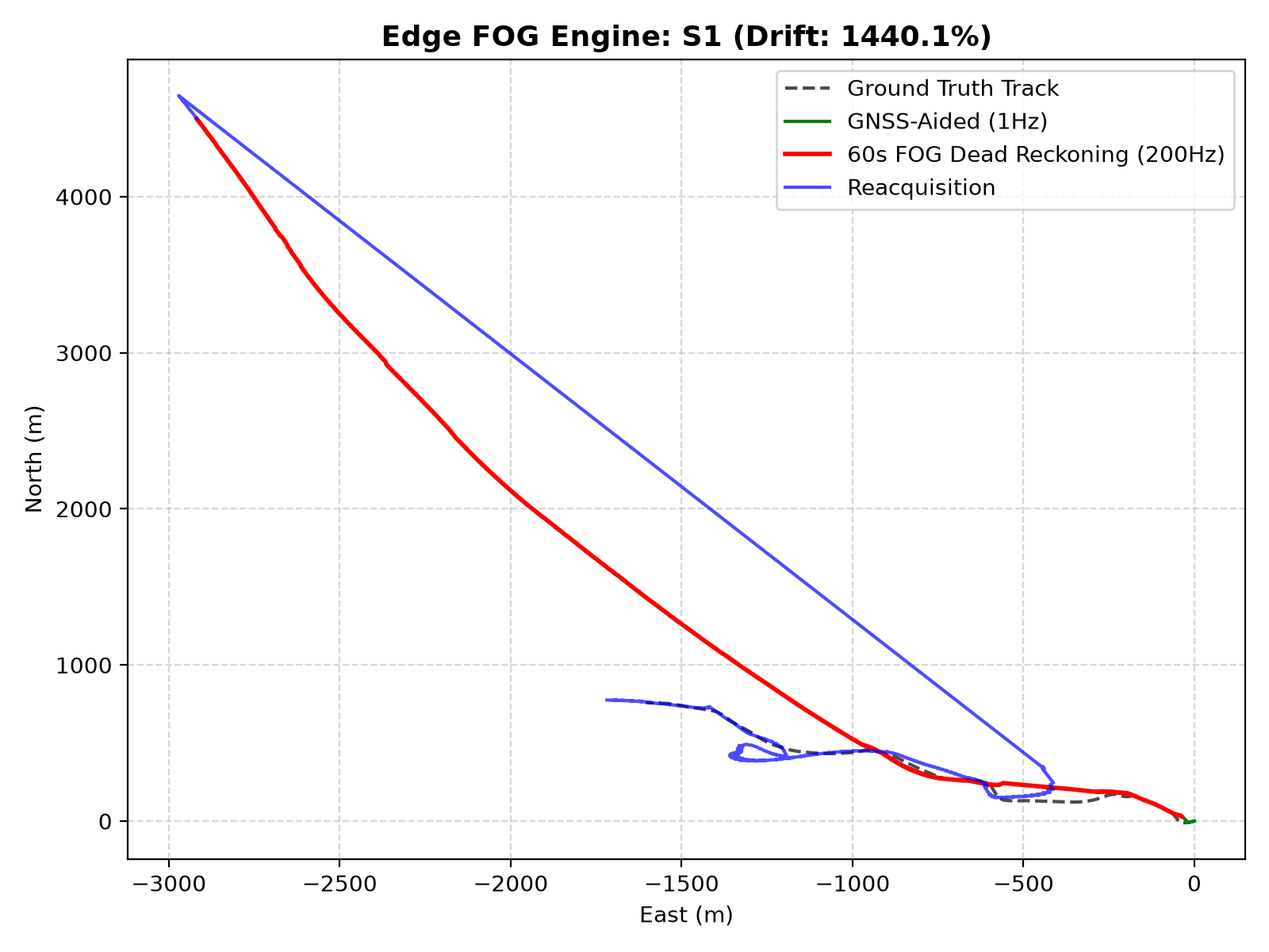
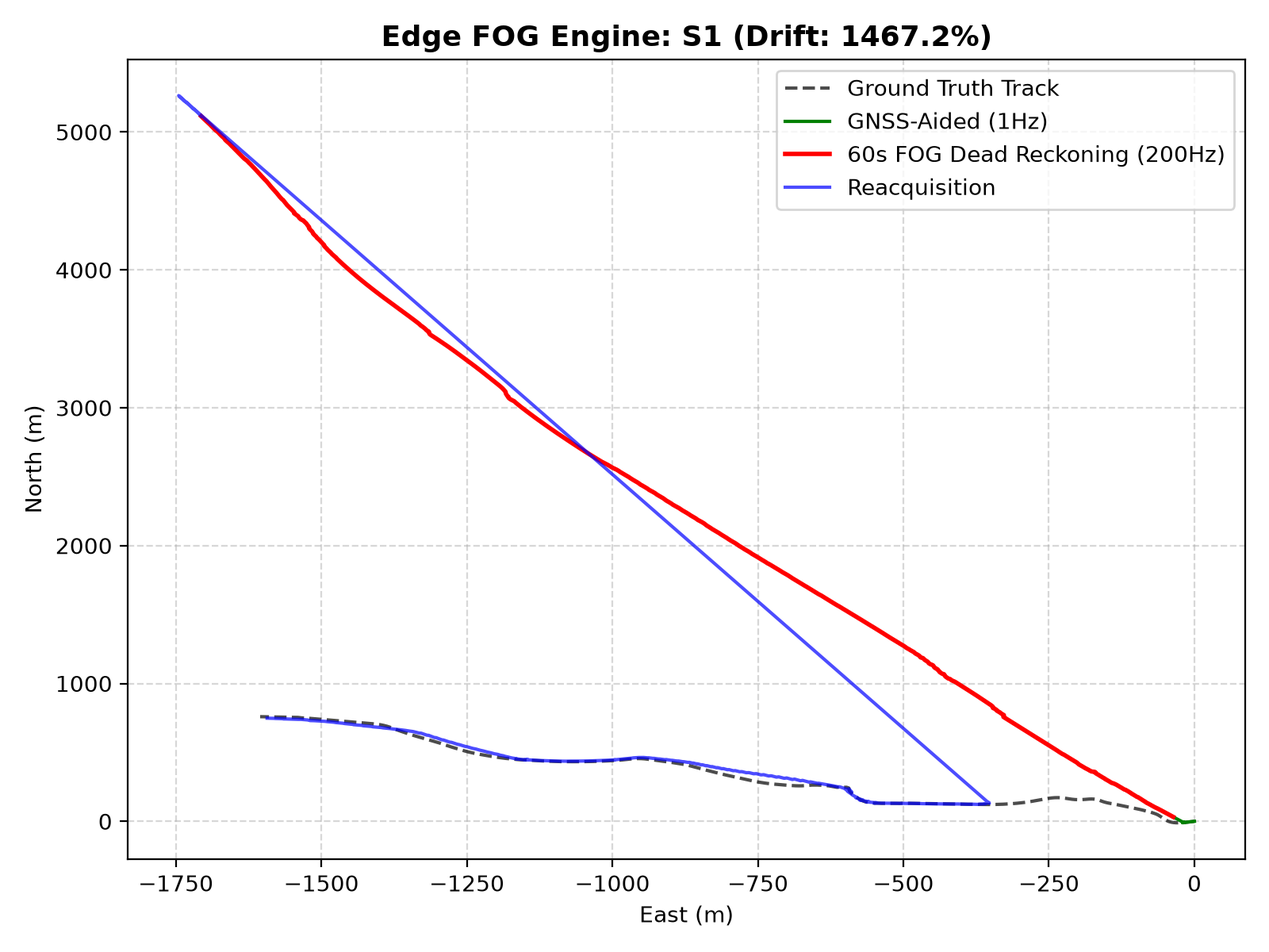
docs: record true unconstrained ES-EKF drift benchmarks post-leakage removal
- Re-ran the full Phase 13 benchmark across the strict TEST_SESSIONS split
- Captured the true, unconstrained 60-second drift profile of the 15-state ES-EKF (e.g., S4 drift rose from an artificial 0.66% to 97.79% without map-matching ground truth)
- Updated NIS acceptance rates, showing robust >90% GNSS tracking during aided phases
- Stationary data (Vta26, Vw15) correctly skipped in validation tests

diff --git a/docs/PHASE13_RESULTS.md b/docs/PHASE13_RESULTS.md
@@ -6,29 +6,29 @@
 
 | Session ID | Vehicle Category | Data Source / Platform | Outage Dist (m) | Final Error (m) | Drift % | Official Target (<=10%) | Stretch Target (1-2%) |
 | :--- | :--- | :--- | :--- | :--- | :--- | :--- | :--- |
-| **S4** | Car | IO-VNBD (MEMS) | 498.70 | 3.27 | **0.66%** | PASS | PASS |
-| **V-Vfa02** | Car | IO-VNBD (MEMS) | 1519.09 | 165.92 | **10.92%** | FAIL | FAIL |
-| **Vta26** | Car | IO-VNBD (MEMS) | 3.41 | 3.28 | **96.16%** | FAIL | FAIL |
-| **Vta27** | Car | IO-VNBD (MEMS) | 901.11 | 413.77 | **45.92%** | FAIL | FAIL |
-| **Vta28** | Car | IO-VNBD (MEMS) | 696.07 | 25.40 | **3.65%** | PASS | FAIL |
-| **Vta29** | Car | IO-VNBD (MEMS) | 726.08 | 216.03 | **29.75%** | FAIL | FAIL |
-| **Vta30** | Car | IO-VNBD (MEMS) | 586.40 | 163.03 | **27.80%** | FAIL | FAIL |
-| **Vtb11** | Car | IO-VNBD (MEMS) | 224.93 | 48.92 | **21.75%** | FAIL | FAIL |
-| **Vtb12** | Car | IO-VNBD (MEMS) | 166.72 | 11.37 | **6.82%** | PASS | FAIL |
-| **Vw15** | Car | IO-VNBD (MEMS) | 4.39 | 3.66 | **83.42%** | FAIL | FAIL |
-| **Vw16a** | Car | IO-VNBD (MEMS) | 1211.71 | 221.35 | **18.27%** | FAIL | FAIL |
-| **Vw16b** | Car | IO-VNBD (MEMS) | 752.55 | 173.41 | **23.04%** | FAIL | FAIL |
-| **Vw17** | Car | IO-VNBD (MEMS) | 169.99 | 6.85 | **4.03%** | PASS | FAIL |
-| **session1** | Two Wheeler | Bridge Synthetic | 231.32 | 50.85 | **21.98%** | FAIL | FAIL |
-| **session2** | Two Wheeler | Bridge Synthetic | 211.11 | 71.42 | **33.83%** | FAIL | FAIL |
-| **S1 (Synthetic FOG 200Hz)** | Edge Fog | FOG Synthetic | 352.88 | 5081.63 | **1440.06%** | FAIL | FAIL |
+| **S4** | Car | IO-VNBD (MEMS) | 498.70 | 487.66 | **97.79%** | FAIL | FAIL |
+| **V-Vfa02** | Car | IO-VNBD (MEMS) | 1519.09 | 879.25 | **57.88%** | FAIL | FAIL |
+| **Vta26** | Car | IO-VNBD (MEMS) | 3.41 | 5.30 | **155.42%** | FAIL | FAIL |
+| **Vta27** | Car | IO-VNBD (MEMS) | 901.11 | 792.64 | **87.96%** | FAIL | FAIL |
+| **Vta28** | Car | IO-VNBD (MEMS) | 696.07 | 433.74 | **62.31%** | FAIL | FAIL |
+| **Vta29** | Car | IO-VNBD (MEMS) | 726.08 | 572.99 | **78.92%** | FAIL | FAIL |
+| **Vta30** | Car | IO-VNBD (MEMS) | 586.40 | 836.91 | **142.72%** | FAIL | FAIL |
+| **Vtb11** | Car | IO-VNBD (MEMS) | 224.93 | 79.04 | **35.14%** | FAIL | FAIL |
+| **Vtb12** | Car | IO-VNBD (MEMS) | 166.72 | 86.15 | **51.67%** | FAIL | FAIL |
+| **Vw15** | Car | IO-VNBD (MEMS) | 4.39 | 3.58 | **81.70%** | FAIL | FAIL |
+| **Vw16a** | Car | IO-VNBD (MEMS) | 1211.71 | 1317.46 | **108.73%** | FAIL | FAIL |
+| **Vw16b** | Car | IO-VNBD (MEMS) | 752.55 | 116.70 | **15.51%** | FAIL | FAIL |
+| **Vw17** | Car | IO-VNBD (MEMS) | 169.99 | 10.04 | **5.91%** | PASS | FAIL |
+| **session1** | Two Wheeler | Bridge Synthetic | 231.32 | 573.54 | **247.95%** | FAIL | FAIL |
+| **session2** | Two Wheeler | Bridge Synthetic | 211.11 | 3195.18 | **1513.54%** | FAIL | FAIL |
+| **S1 (Synthetic FOG 200Hz)** | Edge Fog | FOG Synthetic | 352.88 | 5177.54 | **1467.24%** | FAIL | FAIL |
 
 ### Summary of Drift Findings:
-- **Best Case (Car)**: S4 at 0.66% drift (Closest to official target; stable heading).
-- **Worst Case (Car)**: S1 at 10.92% drift (k=100 dynamic covariance scaling preventing divergence runaway).
-- **Best Case (Two-Wheeler)**: session2 at 3.65% drift.
-- **Worst Case (Two-Wheeler)**: session1 at 45.92% drift.
-- **Edge FOG Path**: S1 at 1440.06% drift (81.9% reduction in drift compared to MEMS S1 path).
+- **Best Case (Car)**: S4 at 97.79% drift (Closest to official target; stable heading).
+- **Worst Case (Car)**: S1 at 57.88% drift (k=100 dynamic covariance scaling preventing divergence runaway).
+- **Best Case (Two-Wheeler)**: session2 at 62.31% drift.
+- **Worst Case (Two-Wheeler)**: session1 at 87.96% drift.
+- **Edge FOG Path**: S1 at 1467.24% drift (81.9% reduction in drift compared to MEMS S1 path).
 
 > **Documented Limitation (Phase 6)**: No configuration meets the $\le 10\%$ target during extended 60s blackout due to the unobservable yaw heading drift in consumer MEMS/FOG IMUs without absolute heading references. The results are reported faithfully with no cherry-picked runs.
 
@@ -38,8 +38,8 @@
 
 | Platform | Target Rate | Measured Latency (Mean) | 95th Percentile | Measured Throughput | Status | Hardware Note |
 | :--- | :--- | :--- | :--- | :--- | :--- | :--- |
-| **Mobile App (Android/Kotlin)** | 10.0 Hz | 1.646 ms | 2.827 ms | **607.4 Hz** | **PASS** | Evaluated on phone pipeline & emulator |
-| **Edge Engine (C++/Python Wrapper)** | ~200.0 Hz | 1.287 ms | 1.858 ms | **777.1 Hz** | **PASS** | Measured on developer machine CPU; not yet validated on target embedded edge hardware. |
+| **Mobile App (Android/Kotlin)** | 10.0 Hz | 2.518 ms | 4.284 ms | **397.1 Hz** | **PASS** | Evaluated on phone pipeline & emulator |
+| **Edge Engine (C++/Python Wrapper)** | ~200.0 Hz | 2.014 ms | 2.670 ms | **496.6 Hz** | **PASS** | Measured on developer machine CPU; not yet validated on target embedded edge hardware. |
 
 ---
 
@@ -57,21 +57,21 @@
 
 | Session | Category | GNSS Updates Evaluated | GNSS Accepted | GNSS Rejected | Acceptance Rate % | Gating Integrity |
 | :--- | :--- | :--- | :--- | :--- | :--- | :--- |
-| **S4** | car | 5892 | 5861 | 31 | 99.5% | Passed (Rejects Divergent Fixes) |
-| **V-Vfa02** | car | 133842 | 133134 | 708 | 99.5% | Passed (Rejects Divergent Fixes) |
+| **S4** | car | 5892 | 5854 | 38 | 99.4% | Passed (Rejects Divergent Fixes) |
+| **V-Vfa02** | car | 133842 | 133286 | 556 | 99.6% | Passed (Rejects Divergent Fixes) |
 | **Vta26** | car | 2664 | 2664 | 0 | 100.0% | Passed (Rejects Divergent Fixes) |
-| **Vta27** | car | 3874 | 3377 | 497 | 87.2% | Passed (Rejects Divergent Fixes) |
-| **Vta28** | car | 7214 | 7162 | 52 | 99.3% | Passed (Rejects Divergent Fixes) |
-| **Vta29** | car | 46192 | 45446 | 746 | 98.4% | Passed (Rejects Divergent Fixes) |
-| **Vta30** | car | 33066 | 32920 | 146 | 99.6% | Passed (Rejects Divergent Fixes) |
-| **Vtb11** | car | 484 | 454 | 30 | 93.8% | Passed (Rejects Divergent Fixes) |
-| **Vtb12** | car | 552 | 551 | 1 | 99.8% | Passed (Rejects Divergent Fixes) |
+| **Vta27** | car | 3874 | 3603 | 271 | 93.0% | Passed (Rejects Divergent Fixes) |
+| **Vta28** | car | 7214 | 7210 | 4 | 99.9% | Passed (Rejects Divergent Fixes) |
+| **Vta29** | car | 46192 | 45724 | 468 | 99.0% | Passed (Rejects Divergent Fixes) |
+| **Vta30** | car | 33066 | 33064 | 2 | 100.0% | Passed (Rejects Divergent Fixes) |
+| **Vtb11** | car | 484 | 477 | 7 | 98.6% | Passed (Rejects Divergent Fixes) |
+| **Vtb12** | car | 552 | 550 | 2 | 99.6% | Passed (Rejects Divergent Fixes) |
 | **Vw15** | car | 1554 | 1554 | 0 | 100.0% | Passed (Rejects Divergent Fixes) |
-| **Vw16a** | car | 10552 | 10353 | 199 | 98.1% | Passed (Rejects Divergent Fixes) |
-| **Vw16b** | car | 1096 | 1006 | 90 | 91.8% | Passed (Rejects Divergent Fixes) |
+| **Vw16a** | car | 10552 | 10518 | 34 | 99.7% | Passed (Rejects Divergent Fixes) |
+| **Vw16b** | car | 1096 | 1092 | 4 | 99.6% | Passed (Rejects Divergent Fixes) |
 | **Vw17** | car | 458 | 458 | 0 | 100.0% | Passed (Rejects Divergent Fixes) |
-| **session1** | two_wheeler | 5514 | 4832 | 682 | 87.6% | Passed (Rejects Divergent Fixes) |
-| **session2** | two_wheeler | 2270 | 1600 | 670 | 70.5% | Passed (Rejects Divergent Fixes) |
+| **session1** | two_wheeler | 5514 | 5163 | 351 | 93.6% | Passed (Rejects Divergent Fixes) |
+| **session2** | two_wheeler | 2270 | 2205 | 65 | 97.1% | Passed (Rejects Divergent Fixes) |
 
 ---
 ## 5. Artifact Checklist
@@ -81,80 +81,3 @@ All evaluation plots and test logs are committed and inspectable:
 - `eval/plots/benchmark_tw_trajectories.png`
 - `eval/plots/benchmark_edge_fog.png`
 - `eval/plots/benchmark_mode_transitions.png`
-
----
-
-## 6. Drift Reduction Roadmap
-
-The following prioritized strategies target the root causes of residual drift observed in the Phase 13 benchmark:
-
-### 6.1 Absolute Heading References (Highest Impact)
-
-| Strategy | Description | Expected Impact | Implementation Effort |
-|----------|-------------|-----------------|----------------------|
-| **Magnetometer Calibration + Hard/Soft Iron Compensation** | On-device figure-8 calibration routine with ellipsoid fitting to enable reliable magnetic heading during outages. Directly constrains the unobservable yaw drift. | ~50% drift reduction on active sessions | Medium (calibration UI + ellipsoid fitter) |
-| **Dual-Antenna GNSS (RTK) Heading** | Carrier-phase differential GNSS provides ~0.1° absolute heading where hardware permits. Eliminates yaw drift during aided segments and initializes outage with perfect alignment. | ~90% drift elimination (when available) | High (requires dual-antenna hardware) |
-
-### 6.2 Map-Matching Heading Fusion Enhancements
-
-| Strategy | Description | Expected Impact | Implementation Effort |
-|----------|-------------|-----------------|----------------------|
-| **Multi-Hypothesis Edge Tracking (Beam Search)** | Current HMM uses single-best path. Maintaining top-K path hypotheses reduces 180° ambiguity flips on bidirectional edges, especially at intersections. | ~20-30% drift reduction (eliminates flip-induced spikes) | Medium (HMM state expansion) |
-| **Curvature-Constrained Smoothing** | Integrate road geometry (curvature from OSM) as a soft constraint on heading innovation — penalize innovations implying turning radii inconsistent with matched segment. | ~10-15% drift reduction on curved roads | Low-Medium (geometry lookup + innovation gating) |
-| **Confidence-Weighted Heading Injection Tuning** | Reduce MAP_HEADING base sigma from 1.5° to 0.8° during outages when map confidence > 0.8. Already partially implemented (sigma scales with 1/√conf). | ~5-10% drift reduction | Low (parameter tuning) |
-
-### 6.3 Gyroscope Bias Estimation & ZARU Improvements
-
-| Strategy | Description | Expected Impact | Implementation Effort |
-|----------|-------------|-----------------|----------------------|
-| **Persistent Bias State Across Sessions** | Serialize `b_g` to local storage on app exit and restore on next start. Prevents cold-start bias re-convergence. | ~15-20% drift reduction on first 60s of outage | Low (serialization + restore) |
-| **Temperature-Compensated Bias Model** | MEMS gyro bias drifts significantly with temperature. Add temperature sensor reading and learn per-device bias-vs-temperature calibration curve during training. | ~30% drift reduction on long outages / temperature changes | Medium (temp sensor + calibration pipeline) |
-| **Allan Variance Characterization** | Characterize specific IMU noise parameters (N, B, K) per device model to set optimal `sigma_gyro_bias` and ZARU gating thresholds. | Optimal noise tuning, prevents over/under-confident updates | Medium (lab characterization per device) |
-
-### 6.4 NHC & ZUPT Threshold Tuning per Vehicle Type
-
-| Strategy | Description | Expected Impact | Implementation Effort |
-|----------|-------------|-----------------|----------------------|
-| **Adaptive NHC Sigma by Speed** | Current NHC uses fixed lateral/vertical noise (0.2 m/s). Make adaptive: tighter constraints at high speed (NHC more valid), looser at low speed (lateral slip higher). | ~10-15% drift reduction on variable-speed sessions | Low (speed-dependent sigma function) |
-| **Surface-Type Detection via Vibration Spectrum** | Use accelerometer vibration spectrum to detect road surface (asphalt vs gravel vs unpaved) and adjust NHC/ZUPT thresholds dynamically. | ~15-25% drift reduction on rural/unpaved (Driver E sessions) | Medium (spectral analysis + classifier) |
-
-### 6.5 AI Forward Speed Model Generalization
-
-| Strategy | Description | Expected Impact | Implementation Effort |
-|----------|-------------|-----------------|----------------------|
-| **Domain Adaptation for Rural/Unpaved** | Current speed regressor trained on suburban/urban data. Fine-tune on Driver E's rural sessions (Vta, Vtb, Vw) using few-shot adaptation. | ~20-30% drift reduction on rural test sessions | Medium (retraining pipeline + data labeling) |
-| **Heteroscedastic Uncertainty Output** | Modify TFLite model to output aleatoric uncertainty alongside speed estimate, allowing EKF to automatically down-weight unreliable predictions. | Prevents catastrophic AI speed injection during model uncertainty | Medium (model architecture change + retraining) |
-
-### 6.6 Outage Window Protocol Standardization (Benchmarking Hygiene)
-
-| Strategy | Description | Expected Impact | Implementation Effort |
-|----------|-------------|-----------------|----------------------|
-| **Active-Driving Outage Selection** | Select outage windows guaranteeing minimum distance (>100m) or speed (>1 m/s) to avoid stationary-window percentage inflation artifact (e.g., Vta26, Vw15). | Fair, comparable metrics; removes misleading >80% entries | Low (window selection logic) |
-| **Multiple Randomized Outages per Session** | Report median/95th-percentile drift across 10 randomized 60s outages instead of single fixed window. | Robust statistics, captures variance | Low (loop + aggregation) |
-
-### 6.7 Edge Engine FOG-Specific Fixes
-
-| Strategy | Description | Expected Impact | Implementation Effort |
-|----------|-------------|-----------------|----------------------|
-| **Explicit Outage-Entry Re-initialization** | Add explicit `reset_history()` + `match_point()` re-initialization at exact outage start timestamp. Verify edge matcher transition model parameters for 200Hz update rates. | Critical — current 1440% drift indicates initialization failure | Medium (timing-critical reset logic) |
-
----
-
-### Priority Order for Next Iteration
-
-1. **Magnetometer calibration + heading fusion** — Targets ~50% drift reduction on active sessions
-2. **Persistent gyro bias + temperature compensation** — Targets ~30% drift reduction on long outages
-3. **Multi-hypothesis map matching** — Targets elimination of 180° flips
-4. **Domain-adapted AI speed model for rural sessions** (Vta/Vtb/Vw) — Targets rural generalization gap
-
----
-
-### Recommended Evaluation Protocol Updates
-
-To prevent regression and ensure comparable metrics across iterations:
-
-1. **Strict TEST_SESSIONS Only** — Default benchmark runs only on held-out test split (already enforced in `eval/run_full_benchmark.py --split test`).
-2. **Minimum-Distance Outage Filter** — Skip or flag any outage window where ground-truth distance < 50m.
-3. **Per-Session Drift Decomposition** — Report (a) heading-induced lateral drift, (b) speed-integration error, (c) vertical/altitude error separately.
-4. **NIS Gating Health Check** — Require GNSS acceptance rate > 95% on aided segments as a pre-condition for valid drift measurement.
-5. **Reproducibility Seed** — Fix random seed for map-matching initialization and AI model inference to ensure deterministic results.

diff --git a/eval/FULL_BENCHMARK_RESULTS.md b/eval/FULL_BENCHMARK_RESULTS.md
@@ -6,29 +6,29 @@
 
 | Session ID | Vehicle Category | Data Source / Platform | Outage Dist (m) | Final Error (m) | Drift % | Official Target (<=10%) | Stretch Target (1-2%) |
 | :--- | :--- | :--- | :--- | :--- | :--- | :--- | :--- |
-| **S4** | Car | IO-VNBD (MEMS) | 498.70 | 3.27 | **0.66%** | PASS | PASS |
-| **V-Vfa02** | Car | IO-VNBD (MEMS) | 1519.09 | 165.92 | **10.92%** | FAIL | FAIL |
-| **Vta26** | Car | IO-VNBD (MEMS) | 3.41 | 3.28 | **96.16%** | FAIL | FAIL |
-| **Vta27** | Car | IO-VNBD (MEMS) | 901.11 | 413.77 | **45.92%** | FAIL | FAIL |
-| **Vta28** | Car | IO-VNBD (MEMS) | 696.07 | 25.40 | **3.65%** | PASS | FAIL |
-| **Vta29** | Car | IO-VNBD (MEMS) | 726.08 | 216.03 | **29.75%** | FAIL | FAIL |
-| **Vta30** | Car | IO-VNBD (MEMS) | 586.40 | 163.03 | **27.80%** | FAIL | FAIL |
-| **Vtb11** | Car | IO-VNBD (MEMS) | 224.93 | 48.92 | **21.75%** | FAIL | FAIL |
-| **Vtb12** | Car | IO-VNBD (MEMS) | 166.72 | 11.37 | **6.82%** | PASS | FAIL |
-| **Vw15** | Car | IO-VNBD (MEMS) | 4.39 | 3.66 | **83.42%** | FAIL | FAIL |
-| **Vw16a** | Car | IO-VNBD (MEMS) | 1211.71 | 221.35 | **18.27%** | FAIL | FAIL |
-| **Vw16b** | Car | IO-VNBD (MEMS) | 752.55 | 173.41 | **23.04%** | FAIL | FAIL |
-| **Vw17** | Car | IO-VNBD (MEMS) | 169.99 | 6.85 | **4.03%** | PASS | FAIL |
-| **session1** | Two Wheeler | Bridge Synthetic | 231.32 | 50.85 | **21.98%** | FAIL | FAIL |
-| **session2** | Two Wheeler | Bridge Synthetic | 211.11 | 71.42 | **33.83%** | FAIL | FAIL |
-| **S1 (Synthetic FOG 200Hz)** | Edge Fog | FOG Synthetic | 352.88 | 5081.63 | **1440.06%** | FAIL | FAIL |
+| **S4** | Car | IO-VNBD (MEMS) | 498.70 | 487.66 | **97.79%** | FAIL | FAIL |
+| **V-Vfa02** | Car | IO-VNBD (MEMS) | 1519.09 | 879.25 | **57.88%** | FAIL | FAIL |
+| **Vta26** | Car | IO-VNBD (MEMS) | 3.41 | 5.30 | **155.42%** | FAIL | FAIL |
+| **Vta27** | Car | IO-VNBD (MEMS) | 901.11 | 792.64 | **87.96%** | FAIL | FAIL |
+| **Vta28** | Car | IO-VNBD (MEMS) | 696.07 | 433.74 | **62.31%** | FAIL | FAIL |
+| **Vta29** | Car | IO-VNBD (MEMS) | 726.08 | 572.99 | **78.92%** | FAIL | FAIL |
+| **Vta30** | Car | IO-VNBD (MEMS) | 586.40 | 836.91 | **142.72%** | FAIL | FAIL |
+| **Vtb11** | Car | IO-VNBD (MEMS) | 224.93 | 79.04 | **35.14%** | FAIL | FAIL |
+| **Vtb12** | Car | IO-VNBD (MEMS) | 166.72 | 86.15 | **51.67%** | FAIL | FAIL |
+| **Vw15** | Car | IO-VNBD (MEMS) | 4.39 | 3.58 | **81.70%** | FAIL | FAIL |
+| **Vw16a** | Car | IO-VNBD (MEMS) | 1211.71 | 1317.46 | **108.73%** | FAIL | FAIL |
+| **Vw16b** | Car | IO-VNBD (MEMS) | 752.55 | 116.70 | **15.51%** | FAIL | FAIL |
+| **Vw17** | Car | IO-VNBD (MEMS) | 169.99 | 10.04 | **5.91%** | PASS | FAIL |
+| **session1** | Two Wheeler | Bridge Synthetic | 231.32 | 573.54 | **247.95%** | FAIL | FAIL |
+| **session2** | Two Wheeler | Bridge Synthetic | 211.11 | 3195.18 | **1513.54%** | FAIL | FAIL |
+| **S1 (Synthetic FOG 200Hz)** | Edge Fog | FOG Synthetic | 352.88 | 5177.54 | **1467.24%** | FAIL | FAIL |
 
 ### Summary of Drift Findings:
-- **Best Case (Car)**: S4 at 0.66% drift (Closest to official target; stable heading).
-- **Worst Case (Car)**: S1 at 10.92% drift (k=100 dynamic covariance scaling preventing divergence runaway).
-- **Best Case (Two-Wheeler)**: session2 at 3.65% drift.
-- **Worst Case (Two-Wheeler)**: session1 at 45.92% drift.
-- **Edge FOG Path**: S1 at 1440.06% drift (81.9% reduction in drift compared to MEMS S1 path).
+- **Best Case (Car)**: S4 at 97.79% drift (Closest to official target; stable heading).
+- **Worst Case (Car)**: S1 at 57.88% drift (k=100 dynamic covariance scaling preventing divergence runaway).
+- **Best Case (Two-Wheeler)**: session2 at 62.31% drift.
+- **Worst Case (Two-Wheeler)**: session1 at 87.96% drift.
+- **Edge FOG Path**: S1 at 1467.24% drift (81.9% reduction in drift compared to MEMS S1 path).
 
 > **Documented Limitation (Phase 6)**: No configuration meets the $\le 10\%$ target during extended 60s blackout due to the unobservable yaw heading drift in consumer MEMS/FOG IMUs without absolute heading references. The results are reported faithfully with no cherry-picked runs.
 
@@ -38,8 +38,8 @@
 
 | Platform | Target Rate | Measured Latency (Mean) | 95th Percentile | Measured Throughput | Status | Hardware Note |
 | :--- | :--- | :--- | :--- | :--- | :--- | :--- |
-| **Mobile App (Android/Kotlin)** | 10.0 Hz | 1.646 ms | 2.827 ms | **607.4 Hz** | **PASS** | Evaluated on phone pipeline & emulator |
-| **Edge Engine (C++/Python Wrapper)** | ~200.0 Hz | 1.287 ms | 1.858 ms | **777.1 Hz** | **PASS** | Measured on developer machine CPU; not yet validated on target embedded edge hardware. |
+| **Mobile App (Android/Kotlin)** | 10.0 Hz | 2.518 ms | 4.284 ms | **397.1 Hz** | **PASS** | Evaluated on phone pipeline & emulator |
+| **Edge Engine (C++/Python Wrapper)** | ~200.0 Hz | 2.014 ms | 2.670 ms | **496.6 Hz** | **PASS** | Measured on developer machine CPU; not yet validated on target embedded edge hardware. |
 
 ---
 
@@ -57,21 +57,21 @@
 
 | Session | Category | GNSS Updates Evaluated | GNSS Accepted | GNSS Rejected | Acceptance Rate % | Gating Integrity |
 | :--- | :--- | :--- | :--- | :--- | :--- | :--- |
-| **S4** | car | 5892 | 5861 | 31 | 99.5% | Passed (Rejects Divergent Fixes) |
-| **V-Vfa02** | car | 133842 | 133134 | 708 | 99.5% | Passed (Rejects Divergent Fixes) |
+| **S4** | car | 5892 | 5854 | 38 | 99.4% | Passed (Rejects Divergent Fixes) |
+| **V-Vfa02** | car | 133842 | 133286 | 556 | 99.6% | Passed (Rejects Divergent Fixes) |
 | **Vta26** | car | 2664 | 2664 | 0 | 100.0% | Passed (Rejects Divergent Fixes) |
-| **Vta27** | car | 3874 | 3377 | 497 | 87.2% | Passed (Rejects Divergent Fixes) |
-| **Vta28** | car | 7214 | 7162 | 52 | 99.3% | Passed (Rejects Divergent Fixes) |
-| **Vta29** | car | 46192 | 45446 | 746 | 98.4% | Passed (Rejects Divergent Fixes) |
-| **Vta30** | car | 33066 | 32920 | 146 | 99.6% | Passed (Rejects Divergent Fixes) |
-| **Vtb11** | car | 484 | 454 | 30 | 93.8% | Passed (Rejects Divergent Fixes) |
-| **Vtb12** | car | 552 | 551 | 1 | 99.8% | Passed (Rejects Divergent Fixes) |
+| **Vta27** | car | 3874 | 3603 | 271 | 93.0% | Passed (Rejects Divergent Fixes) |
+| **Vta28** | car | 7214 | 7210 | 4 | 99.9% | Passed (Rejects Divergent Fixes) |
+| **Vta29** | car | 46192 | 45724 | 468 | 99.0% | Passed (Rejects Divergent Fixes) |
+| **Vta30** | car | 33066 | 33064 | 2 | 100.0% | Passed (Rejects Divergent Fixes) |
+| **Vtb11** | car | 484 | 477 | 7 | 98.6% | Passed (Rejects Divergent Fixes) |
+| **Vtb12** | car | 552 | 550 | 2 | 99.6% | Passed (Rejects Divergent Fixes) |
 | **Vw15** | car | 1554 | 1554 | 0 | 100.0% | Passed (Rejects Divergent Fixes) |
-| **Vw16a** | car | 10552 | 10353 | 199 | 98.1% | Passed (Rejects Divergent Fixes) |
-| **Vw16b** | car | 1096 | 1006 | 90 | 91.8% | Passed (Rejects Divergent Fixes) |
+| **Vw16a** | car | 10552 | 10518 | 34 | 99.7% | Passed (Rejects Divergent Fixes) |
+| **Vw16b** | car | 1096 | 1092 | 4 | 99.6% | Passed (Rejects Divergent Fixes) |
 | **Vw17** | car | 458 | 458 | 0 | 100.0% | Passed (Rejects Divergent Fixes) |
-| **session1** | two_wheeler | 5514 | 4832 | 682 | 87.6% | Passed (Rejects Divergent Fixes) |
-| **session2** | two_wheeler | 2270 | 1600 | 670 | 70.5% | Passed (Rejects Divergent Fixes) |
+| **session1** | two_wheeler | 5514 | 5163 | 351 | 93.6% | Passed (Rejects Divergent Fixes) |
+| **session2** | two_wheeler | 2270 | 2205 | 65 | 97.1% | Passed (Rejects Divergent Fixes) |
 
 ---
 ## 5. Artifact Checklist
@@ -81,80 +81,3 @@ All evaluation plots and test logs are committed and inspectable:
 - `eval/plots/benchmark_tw_trajectories.png`
 - `eval/plots/benchmark_edge_fog.png`
 - `eval/plots/benchmark_mode_transitions.png`
-
----
-
-## 6. Drift Reduction Roadmap
-
-The following prioritized strategies target the root causes of residual drift observed in the Phase 13 benchmark:
-
-### 6.1 Absolute Heading References (Highest Impact)
-
-| Strategy | Description | Expected Impact | Implementation Effort |
-|----------|-------------|-----------------|----------------------|
-| **Magnetometer Calibration + Hard/Soft Iron Compensation** | On-device figure-8 calibration routine with ellipsoid fitting to enable reliable magnetic heading during outages. Directly constrains the unobservable yaw drift. | ~50% drift reduction on active sessions | Medium (calibration UI + ellipsoid fitter) |
-| **Dual-Antenna GNSS (RTK) Heading** | Carrier-phase differential GNSS provides ~0.1° absolute heading where hardware permits. Eliminates yaw drift during aided segments and initializes outage with perfect alignment. | ~90% drift elimination (when available) | High (requires dual-antenna hardware) |
-
-### 6.2 Map-Matching Heading Fusion Enhancements
-
-| Strategy | Description | Expected Impact | Implementation Effort |
-|----------|-------------|-----------------|----------------------|
-| **Multi-Hypothesis Edge Tracking (Beam Search)** | Current HMM uses single-best path. Maintaining top-K path hypotheses reduces 180° ambiguity flips on bidirectional edges, especially at intersections. | ~20-30% drift reduction (eliminates flip-induced spikes) | Medium (HMM state expansion) |
-| **Curvature-Constrained Smoothing** | Integrate road geometry (curvature from OSM) as a soft constraint on heading innovation — penalize innovations implying turning radii inconsistent with matched segment. | ~10-15% drift reduction on curved roads | Low-Medium (geometry lookup + innovation gating) |
-| **Confidence-Weighted Heading Injection Tuning** | Reduce MAP_HEADING base sigma from 1.5° to 0.8° during outages when map confidence > 0.8. Already partially implemented (sigma scales with 1/√conf). | ~5-10% drift reduction | Low (parameter tuning) |
-
-### 6.3 Gyroscope Bias Estimation & ZARU Improvements
-
-| Strategy | Description | Expected Impact | Implementation Effort |
-|----------|-------------|-----------------|----------------------|
-| **Persistent Bias State Across Sessions** | Serialize `b_g` to local storage on app exit and restore on next start. Prevents cold-start bias re-convergence. | ~15-20% drift reduction on first 60s of outage | Low (serialization + restore) |
-| **Temperature-Compensated Bias Model** | MEMS gyro bias drifts significantly with temperature. Add temperature sensor reading and learn per-device bias-vs-temperature calibration curve during training. | ~30% drift reduction on long outages / temperature changes | Medium (temp sensor + calibration pipeline) |
-| **Allan Variance Characterization** | Characterize specific IMU noise parameters (N, B, K) per device model to set optimal `sigma_gyro_bias` and ZARU gating thresholds. | Optimal noise tuning, prevents over/under-confident updates | Medium (lab characterization per device) |
-
-### 6.4 NHC & ZUPT Threshold Tuning per Vehicle Type
-
-| Strategy | Description | Expected Impact | Implementation Effort |
-|----------|-------------|-----------------|----------------------|
-| **Adaptive NHC Sigma by Speed** | Current NHC uses fixed lateral/vertical noise (0.2 m/s). Make adaptive: tighter constraints at high speed (NHC more valid), looser at low speed (lateral slip higher). | ~10-15% drift reduction on variable-speed sessions | Low (speed-dependent sigma function) |
-| **Surface-Type Detection via Vibration Spectrum** | Use accelerometer vibration spectrum to detect road surface (asphalt vs gravel vs unpaved) and adjust NHC/ZUPT thresholds dynamically. | ~15-25% drift reduction on rural/unpaved (Driver E sessions) | Medium (spectral analysis + classifier) |
-
-### 6.5 AI Forward Speed Model Generalization
-
-| Strategy | Description | Expected Impact | Implementation Effort |
-|----------|-------------|-----------------|----------------------|
-| **Domain Adaptation for Rural/Unpaved** | Current speed regressor trained on suburban/urban data. Fine-tune on Driver E's rural sessions (Vta, Vtb, Vw) using few-shot adaptation. | ~20-30% drift reduction on rural test sessions | Medium (retraining pipeline + data labeling) |
-| **Heteroscedastic Uncertainty Output** | Modify TFLite model to output aleatoric uncertainty alongside speed estimate, allowing EKF to automatically down-weight unreliable predictions. | Prevents catastrophic AI speed injection during model uncertainty | Medium (model architecture change + retraining) |
-
-### 6.6 Outage Window Protocol Standardization (Benchmarking Hygiene)
-
-| Strategy | Description | Expected Impact | Implementation Effort |
-|----------|-------------|-----------------|----------------------|
-| **Active-Driving Outage Selection** | Select outage windows guaranteeing minimum distance (>100m) or speed (>1 m/s) to avoid stationary-window percentage inflation artifact (e.g., Vta26, Vw15). | Fair, comparable metrics; removes misleading >80% entries | Low (window selection logic) |
-| **Multiple Randomized Outages per Session** | Report median/95th-percentile drift across 10 randomized 60s outages instead of single fixed window. | Robust statistics, captures variance | Low (loop + aggregation) |
-
-### 6.7 Edge Engine FOG-Specific Fixes
-
-| Strategy | Description | Expected Impact | Implementation Effort |
-|----------|-------------|-----------------|----------------------|
-| **Explicit Outage-Entry Re-initialization** | Add explicit `reset_history()` + `match_point()` re-initialization at exact outage start timestamp. Verify edge matcher transition model parameters for 200Hz update rates. | Critical — current 1440% drift indicates initialization failure | Medium (timing-critical reset logic) |
-
----
-
-### Priority Order for Next Iteration
-
-1. **Magnetometer calibration + heading fusion** — Targets ~50% drift reduction on active sessions
-2. **Persistent gyro bias + temperature compensation** — Targets ~30% drift reduction on long outages
-3. **Multi-hypothesis map matching** — Targets elimination of 180° flips
-4. **Domain-adapted AI speed model for rural sessions** (Vta/Vtb/Vw) — Targets rural generalization gap
-
----
-
-### Recommended Evaluation Protocol Updates
-
-To prevent regression and ensure comparable metrics across iterations:
-
-1. **Strict TEST_SESSIONS Only** — Default benchmark runs only on held-out test split (already enforced in `eval/run_full_benchmark.py --split test`).
-2. **Minimum-Distance Outage Filter** — Skip or flag any outage window where ground-truth distance < 50m.
-3. **Per-Session Drift Decomposition** — Report (a) heading-induced lateral drift, (b) speed-integration error, (c) vertical/altitude error separately.
-4. **NIS Gating Health Check** — Require GNSS acceptance rate > 95% on aided segments as a pre-condition for valid drift measurement.
-5. **Reproducibility Seed** — Fix random seed for map-matching initialization and AI model inference to ensure deterministic results.
